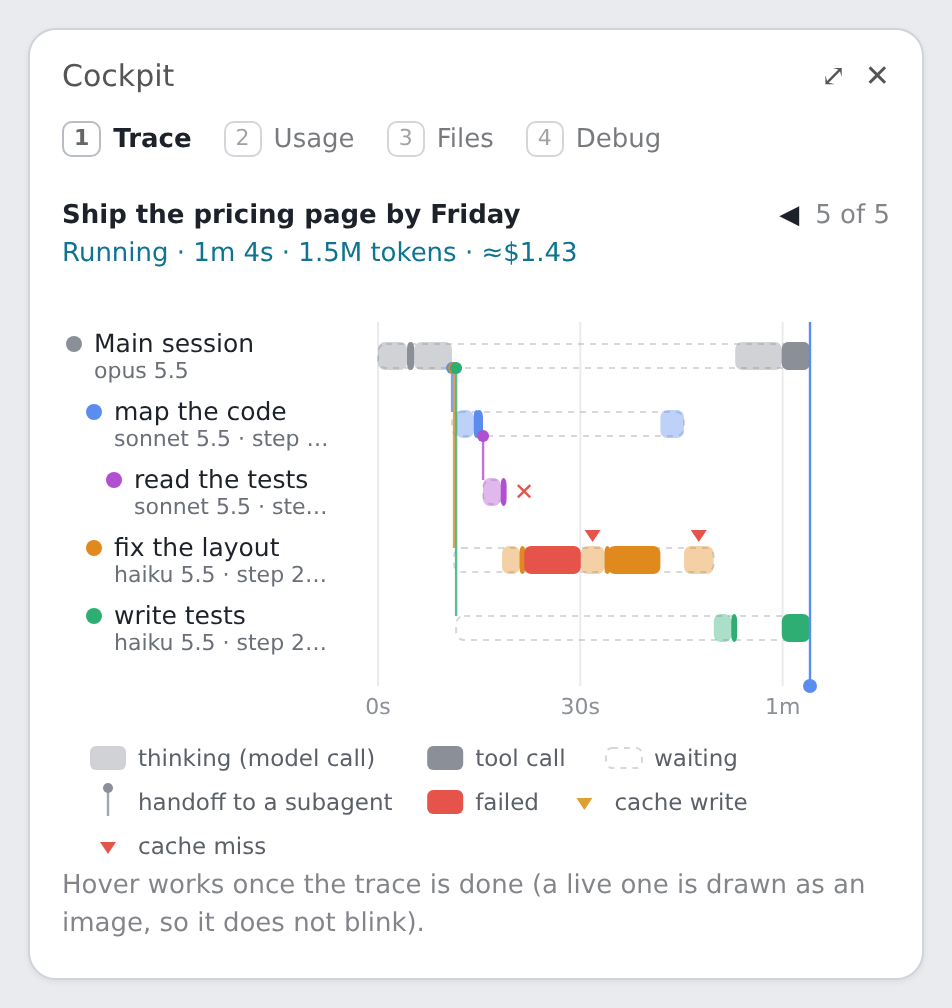
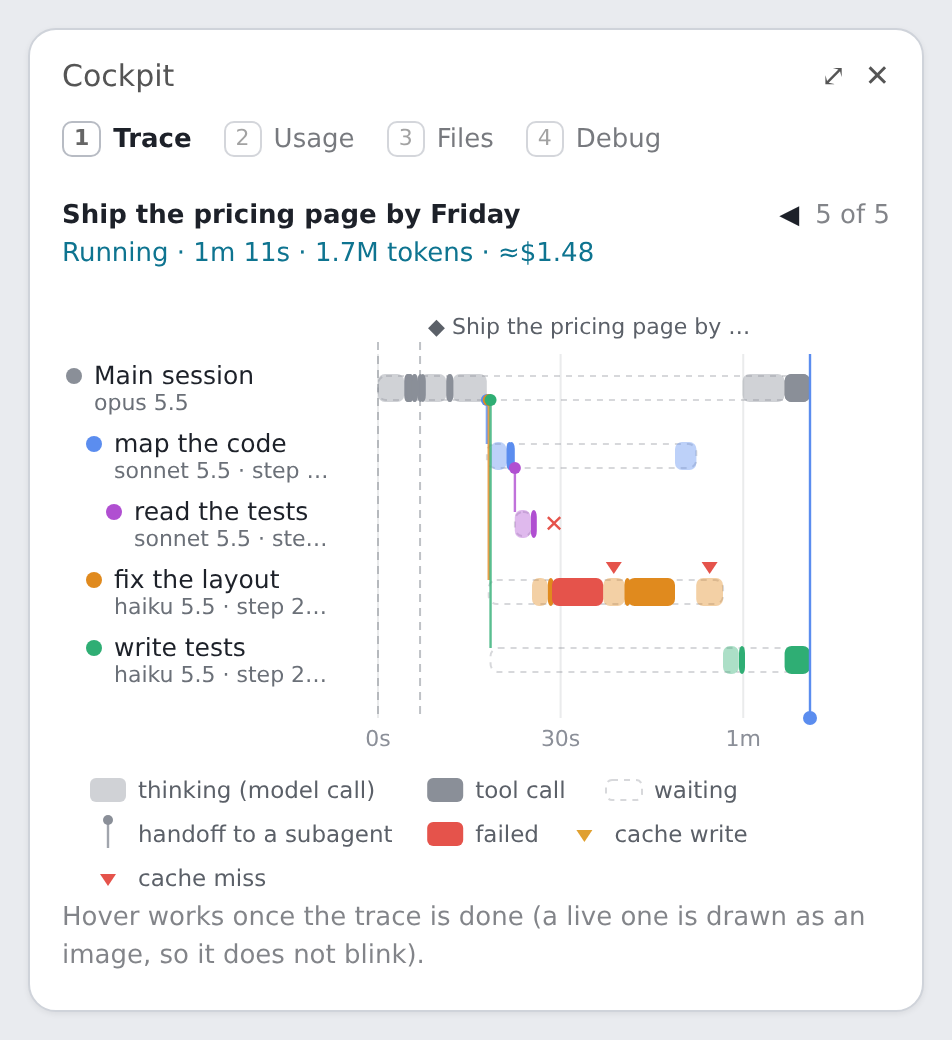
cockpit 0.18.0: trace keeps the previous prompt on the axis as context, each prompt marked where it began

diff --git a/lib/lanes.js b/lib/lanes.js
@@ -47,9 +47,14 @@ function block(S, sp, now, money, idle, ttl) {
   return { t0: sp.t0, t1, kind: sp.st === 'err' ? 'err' : 'tool', tip }
 }
 
-// The lanes of one trace: { T0, T1, lanes: [{ id, name, sub, color, term, depth, t0, t1, from, blocks, live, failed }], hidden }.
-export function lanesOf(S, rootId, now) {
-  const { all, kids, end } = traceTree(S, rootId, now)
+// The lanes of one or more traces on one axis (the latest prompt with the one before it, so a new message does not
+// start from zero): { T0, T1, marks, lanes: [{ id, name, sub, color, term, depth, t0, t1, from, blocks, live, failed }], hidden }.
+export function lanesOf(S, rootIds, now) {
+  const trees = rootIds.map((id) => traceTree(S, id, now))
+  const all = trees.flatMap((t) => t.all)
+  const kids = Object.assign({}, ...trees.map((t) => t.kids))
+  const end = Object.assign({}, ...trees.map((t) => t.end))
+  const rootId = rootIds[0]
   const root = S.spans[rootId]
   const money = (c) => (c >= 0.001 ? (S.account === 'api' ? '$' : '≈$') + (c >= 0.01 ? c.toFixed(2) : c.toFixed(3)) : '')
   const lanes = []
@@ -75,7 +80,7 @@ export function lanesOf(S, rootId, now) {
     // Time since the lane's previous model call, against its cache lifetime (main and subagents have their own).
     const ttl = (isMain ? S.ttlMin : S.ttlSubMin) * 60000
     let lastEnd = null
-    const blocks = own(sp.id)
+    const blocks = (isMain ? rootIds.flatMap((id) => own(id)) : own(sp.id))
       .sort((x, y) => x.t0 - y.t0)
       .map((x) => {
         const idle = x.k === 'llm' && lastEnd !== null ? x.t0 - lastEnd : null
@@ -92,18 +97,21 @@ export function lanesOf(S, rootId, now) {
       term: c[1],
       depth,
       t0: sp.t0,
-      t1: isMain ? end[rootId] : sp.t1 ?? now,
+      t1: isMain ? Math.max(...rootIds.map((id) => end[id])) : sp.t1 ?? now,
       from,
       blocks,
       live: sp.st === 'run',
       failed: sp.st === 'err' || sp.st === 'abort',
       tip: sp.res ? 'Handed back: ' + sp.res : '',
     })
-    for (const ag of agentsUnder(sp.id)) add(ag, depth + 1, lanes.find((l) => l.id === sp.id))
+    for (const ag of isMain ? rootIds.flatMap((id) => agentsUnder(id)) : agentsUnder(sp.id)) add(ag, depth + 1, lanes.find((l) => l.id === sp.id))
   }
   add(root, 0, null)
   const hidden = Math.max(0, lanes.length - MAX_LANES)
-  return { T0: root.t0, T1: Math.max(end[rootId], root.t0 + 1000), lanes: lanes.slice(0, MAX_LANES), hidden, live: all.some((s) => s.st === 'run') }
+  const T1 = Math.max(...rootIds.map((id) => end[id]), root.t0 + 1000)
+  // Where each prompt began: a dashed line and its words, so the earlier one reads as context.
+  const marks = rootIds.map((id) => ({ t: S.spans[id].t0, title: titleOf(S.spans[id].n) || 'continued' }))
+  return { T0: root.t0, T1, marks, lanes: lanes.slice(0, MAX_LANES), hidden, live: all.some((s) => s.st === 'run') }
 }
 
 const TICKS = [1, 2, 5, 10, 15, 30, 60, 120, 300, 600, 900, 1800, 3600, 7200].map((s) => s * 1000)
@@ -116,7 +124,7 @@ const esc = (s) => String(s).replace(/&/g, '&amp;').replace(/</g, '&lt;').replac
 export function lanesSvg(m, W, now) {
   const NAME = Math.min(340, Math.max(150, Math.round(W * 0.33)))
   const LANE = 34
-  const TOP = 6
+  const TOP = m.marks.length > 1 ? 22 : 6 // room for the prompt labels
   const x0 = NAME + 8
   const x1 = W - 10
   const span = m.T1 - m.T0
@@ -131,6 +139,13 @@ export function lanesSvg(m, W, now) {
     const x = X(m.T0 + at)
     s += `<line x1="${x}" y1="${TOP}" x2="${x}" y2="${AX - 14}" class="grid"/><text x="${x}" y="${AX}" class="tick" text-anchor="middle">${tickLabel(at)}</text>`
   }
+  const marks = m.marks.length > 1 ? m.marks : []
+  marks.forEach((mk, i) => {
+    const x = X(mk.t)
+    const room = (i + 1 < marks.length ? X(marks[i + 1].t) : x1) - x - 10 // up to the next prompt's mark, so labels never overlap
+    s += `<line x1="${x}" y1="${TOP - 6}" x2="${x}" y2="${AX - 14}" class="mark"/>`
+    if (room >= 14) s += `<text x="${x + 4}" y="${TOP - 10}" class="mk"><title>${esc(mk.title)}</title>${esc(fit('◆ ' + mk.title, room, 6.4))}</text>`
+  })
   m.lanes.forEach((l, i) => {
     const y = TOP + i * LANE + LANE / 2
     const ind = l.depth * 10
@@ -161,7 +176,7 @@ export function lanesSvg(m, W, now) {
     s += `<line x1="${nx}" y1="${TOP}" x2="${nx}" y2="${AX - 14}" class="now"/><circle cx="${nx}" cy="${AX - 14}" r="3.5" class="nowdot"/>`
   }
   s += `<g transform="translate(0,${AX + 10})">${legend.svg}</g>`
-  const css = `.lg{font-size:11.5px;fill:#5b6068}@media (prefers-color-scheme:dark){.lg{fill:#b4b8bf}}text{font-family:ui-sans-serif,system-ui,-apple-system,"Segoe UI",sans-serif}.name{font-size:12.5px;fill:#1d2129;font-weight:500}.sub{font-size:11px;fill:#6b7078}.tick{font-size:11px;fill:#8b8f98}.grid{stroke:#8b8f98;stroke-opacity:.18}.wait{fill:none;stroke:#8b8f98;stroke-opacity:.35;stroke-dasharray:3 3}.hand{fill:none;stroke-width:1.2;stroke-opacity:.8}.blk:hover{stroke:#1d2129;stroke-width:1.2}.fail{font-size:12px;fill:#e5534b}.now{stroke:#5b8def;stroke-width:1.2}.nowdot{fill:#5b8def}@media (prefers-color-scheme:dark){.name{fill:#e8e9ec}.sub{fill:#a2a6ad}.blk:hover{stroke:#fff}}`
+  const css = `.mark{stroke:#8b8f98;stroke-opacity:.55;stroke-dasharray:4 3}.mk{font-size:11px;fill:#5b6068}@media (prefers-color-scheme:dark){.mk{fill:#b4b8bf}}.lg{font-size:11.5px;fill:#5b6068}@media (prefers-color-scheme:dark){.lg{fill:#b4b8bf}}text{font-family:ui-sans-serif,system-ui,-apple-system,"Segoe UI",sans-serif}.name{font-size:12.5px;fill:#1d2129;font-weight:500}.sub{font-size:11px;fill:#6b7078}.tick{font-size:11px;fill:#8b8f98}.grid{stroke:#8b8f98;stroke-opacity:.18}.wait{fill:none;stroke:#8b8f98;stroke-opacity:.35;stroke-dasharray:3 3}.hand{fill:none;stroke-width:1.2;stroke-opacity:.8}.blk:hover{stroke:#1d2129;stroke-width:1.2}.fail{font-size:12px;fill:#e5534b}.now{stroke:#5b8def;stroke-width:1.2}.nowdot{fill:#5b8def}@media (prefers-color-scheme:dark){.name{fill:#e8e9ec}.sub{fill:#a2a6ad}.blk:hover{stroke:#fff}}`
   return { svg: `<svg xmlns="http://www.w3.org/2000/svg" width="${W}" height="${H}" viewBox="0 0 ${W} ${H}"><style>${css}</style>${s}</svg>`, h: H }
 }
 

diff --git a/lib/views.js b/lib/views.js
@@ -268,8 +268,10 @@ function traceTab(Box, Text, S, now, cols, ui = {}) {
   const root = (ctl.root && S.spans[ctl.root]) || roots[roots.length - 1]
   const idx = roots.indexOf(root)
   now = Math.floor(now / 5000) * 5000 // the lanes move in 5 s steps, so redraws in between draw the same markup
-  const m = lanesOf(S, root.id, now)
-  const { all } = traceTree(S, root.id, now)
+  // The latest prompt is shown with the one before it as context; a prompt picked with ◀ ▶ is shown alone.
+  const shown = !ctl.root && idx > 0 ? [roots[idx - 1].id, root.id] : [root.id]
+  const m = lanesOf(S, shown, now)
+  const all = shown.flatMap((id) => traceTree(S, id, now).all)
   const llm = all.filter((s) => s.k === 'llm')
   const cost = llm.reduce((a, s) => a + (s.cost || 0), 0)
   const errs = all.filter((s) => s.st === 'err').length

diff --git a/tests/cockpit.test.ts b/tests/cockpit.test.ts
@@ -404,6 +404,7 @@ test('the Trace tab draws one lane per loop on both surfaces, with tooltips on D
   expect(svg.props.source).toContain('Bash: pnpm test checkout')
   expect(svg.props.source).toContain('failed: 2 of 14 checkout tests fail')
   expect(svg.props.source).toContain('Grep: coupon')
+  expect(svg.props.source).toMatch(/class="mark"[\s\S]*class="mark"/) // the prompt before stays on the axis as context: a mark for each
   await d.press({ key: 'trace-prev' })
   expect(await d.find({ type: 'Text', text: /^1 of 2$/ })).toBeDefined()
   await d.press({ key: 'trace-next' })

diff --git a/README.md b/README.md
@@ -18,7 +18,7 @@ A Claude Code mod: one recorder, many views. Built against Claude Code 2.1.289. 
 - **crew pill** (only while subagents are running): done / total, one square per subagent in spawn order (blue running, grey done, red failed, amber stopped, hollow = planned and not started; brighter as its context fills), and failed / running counts. Crews over forty are grouped, each square showing the busiest state in its group.
 
 **`/cockpit` pane** (keys 1-4 switch tabs):
-1. **Trace** (opens first): where the time went in one prompt, as swimlanes. The main session and each subagent (under the one that spawned it) get a lane with their model; their thinking (faded) and tool calls (solid) sit on one time axis, a dashed track while they wait, a line where work was handed off, failed calls in red; a triangle over a model call marks a cache write (amber) or a cache miss (red), and its tooltip says how much was read and written and whether the cache had expired. A drawn legend explains every mark. On Desktop, once the trace is done, hover a block for its detail (a live trace is drawn as a plain image: an interactive SVG reloads its frame on every update and blinks) (the command or file, how long, tokens, the error); hover a name for the subagent's answer. ◀ ▶ page through earlier prompts; a turn its subagents wake stays in the same trace.
+1. **Trace** (opens first): where the time went in one prompt, as swimlanes. The main session and each subagent (under the one that spawned it) get a lane with their model; their thinking (faded) and tool calls (solid) sit on one time axis, a dashed track while they wait, a line where work was handed off, failed calls in red; a triangle over a model call marks a cache write (amber) or a cache miss (red), and its tooltip says how much was read and written and whether the cache had expired. A drawn legend explains every mark. On Desktop, once the trace is done, hover a block for its detail (a live trace is drawn as a plain image: an interactive SVG reloads its frame on every update and blinks) (the command or file, how long, tokens, the error); hover a name for the subagent's answer. The latest prompt is drawn with the one before it on the same axis, each marked where it began (◆ and its words), so a new message does not start from zero; ◀ ▶ show one earlier prompt at a time. A turn its subagents wake stays in the same trace.
 2. **Usage**: context, the 5-hour and weekly windows with reset times, task, plan and agent progress, money (API accounts) or worth (subscriptions), session counters and turn-time stats; then the prompt cache: main-window countdown, the subagent caches, read / wrote / new totals, every model or effort switch with the tokens it re-cached, and a stacked bar per request; at the bottom, calls, failures and p50 / p95 per tool for the whole session
 3. **Files**: reads, edits and repeated reads per file. Paths are relative to the workspace folder; a file outside it is shown in full with ↗
 4. **Debug**: which events the recorder has actually seen, and when. Start here if a panel is empty.
